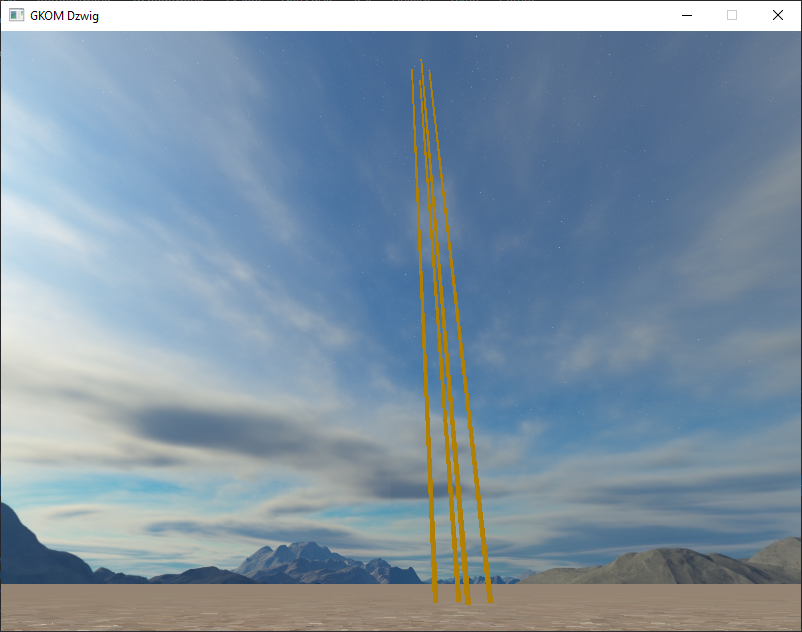
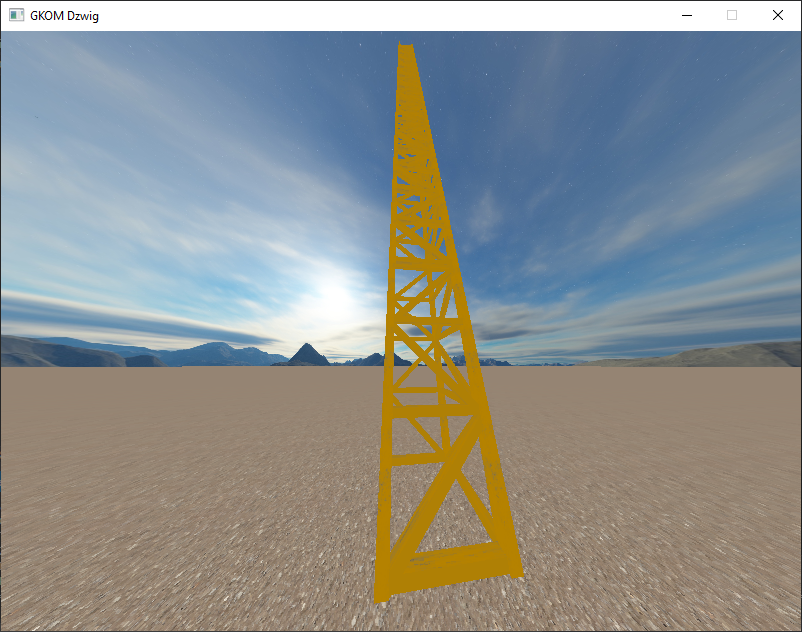
Model cd.

diff --git a/Dzwig/Window.cpp b/Dzwig/Window.cpp
@@ -171,7 +171,7 @@ Window::Window(GLuint w, GLuint h)
 		camera->decreaseCameraSpeed(10.f);
 		this->shaderProgram = ShaderProgram("gl_05.vert", "gl_05.frag");
 
-		ground = new Cuboid(0, -20, 0, 1000, 1, 1000);
+		ground = new Cuboid(0, -2, 0, 1000, 1, 1000);
 		ground->setTexture("gnd1.jpg");
 		
 		
@@ -208,6 +208,89 @@ int Window::mainLoop()
 			Cuboid(1,0,1,.1,50.,.1),
 			Cuboid(1,0,-1,.1,50.,.1),
 		};
+		int cc = 100;
+		Cuboid** c;
+		c = new Cuboid*[cc];
+		GLfloat h = -0.9f;
+		for (int i = 0; i < cc; ++i)
+		{
+			GLfloat rotx=0.f, roty=1.f, rotz=0.f, rotangle=0.f, scalex=1.f, scaley=.08f, scalez=.08f, posx=0.f, posy=h, posz=0.f;
+			if (i % 4 == 0)
+			{
+				posx = -1.f;
+				posz = 0;
+				rotangle = 90.f;
+			}
+			if (i % 4 == 1)
+			{
+				posx = .0f;
+				posz = 1.f;
+			}
+			if (i % 4 == 2)
+			{
+				posx = 1.f;
+				posz = 0.f;
+				rotangle = -90.f;
+			}
+			if (i % 4 == 3)
+			{
+				posx = .0f;
+				posz = -1.f;
+				h += 2.f;
+			}
+			c[i] = new Cuboid(posx, posy, posz, scalex, scaley, scalez, rotx, roty, rotz, rotangle);
+			c[i]->setTexture("metal.png");
+		}
+		int dd = 100;
+		Cuboid** d = new Cuboid*[dd];
+		h = 0.f;
+		for (int i = 0; i < dd/4; ++i)
+		{
+			GLfloat rotx = 0.f, roty = 0.f, rotz = 1.f, rotangle = 45.f, scalex = glm::sqrt(2), scaley = .08f, scalez = .08f, posx = 0.f, posy = h, posz = 1.f;
+			if (i % 2 == 0)
+				rotangle = 45.f;
+			if (i % 2 == 1)
+				rotangle = 135.f;
+			d[i] = new Cuboid(posx, posy, posz, scalex, scaley, scalez, rotx, roty, rotz, rotangle);
+			d[i]->setTexture("metal.png");
+			h += 2.f;
+		}
+		h = 0.f;
+		for (int i = dd/4; i < dd / 2; ++i)
+		{
+			GLfloat rotx = 0.f, roty = 0.f, rotz = 1.f, rotangle = 45.f, scalex = glm::sqrt(2), scaley = .08f, scalez = .08f, posx = 0.f, posy = h, posz = -1.f;
+			if (i % 2 == 0)
+				rotangle = 45.f;
+			if (i % 2 == 1)
+				rotangle = 135.f;
+			d[i] = new Cuboid(posx, posy, posz, scalex, scaley, scalez, rotx, roty, rotz, rotangle);
+			d[i]->setTexture("metal.png");
+			h += 2.f;
+		}
+		h = 0.f;
+		for (int i = dd / 2; i < 3*dd / 4; ++i)
+		{
+			GLfloat rotx = 1.f, roty = 0.f, rotz = 0.f, rotangle = 45.f, scalex = .08f, scaley = .08f, scalez = glm::sqrt(2), posx = -1.f, posy = h, posz = 0.f;
+			if (i % 2 == 0)
+				rotangle = 45.f;
+			if (i % 2 == 1)
+				rotangle = 135.f;
+			d[i] = new Cuboid(posx, posy, posz, scalex, scaley, scalez, rotx, roty, rotz, rotangle);
+			d[i]->setTexture("metal.png");
+			h += 2.f;
+		}
+		h = 0.f;
+		for (int i = 3*dd / 4; i < dd ; ++i)
+		{
+			GLfloat rotx = 1.f, roty = 0.f, rotz = 0.f, rotangle = 45.f, scalex = .08f, scaley = .08f, scalez = glm::sqrt(2), posx = 1.f, posy = h, posz = 0.f;
+			if (i % 2 == 0)
+				rotangle = 45.f;
+			if (i % 2 == 1)
+				rotangle = 135.f;
+			d[i] = new Cuboid(posx, posy, posz, scalex, scaley, scalez, rotx, roty, rotz, rotangle);
+			d[i]->setTexture("metal.png");
+			h += 2.f;
+		}
 		/*b[0].setPosition(-1, 0, -1);
 		b[1].setPosition(-1, 0, 1);
 		b[2].setPosition(1, 0, 1);
@@ -330,6 +413,23 @@ int Window::mainLoop()
 			for (int i = 0; i < 4; ++i)
 			{
 				trans = projection * view*b[i].getModelMatrix();
+				glUniformMatrix4fv(glGetUniformLocation(shaderProgram.get_programID(), "transform"), 1, GL_FALSE, &trans[0][0]);
+				if (test) glEnableVertexAttribArray(1);
+				else glDisableVertexAttribArray(1);
+				glDrawArrays(GL_TRIANGLES, 0, 36);
+			}
+			for (int i = 0; i < cc; ++i)
+			{
+				trans = projection * view*c[i]->getModelMatrix();
+				glUniformMatrix4fv(glGetUniformLocation(shaderProgram.get_programID(), "transform"), 1, GL_FALSE, &trans[0][0]);
+				if (test) glEnableVertexAttribArray(1);
+				else glDisableVertexAttribArray(1);
+				glDrawArrays(GL_TRIANGLES, 0, 36);
+			}
+
+			for (int i = 0; i < dd; ++i)
+			{
+				trans = projection * view*d[i]->getModelMatrix();
 				glUniformMatrix4fv(glGetUniformLocation(shaderProgram.get_programID(), "transform"), 1, GL_FALSE, &trans[0][0]);
 				if (test) glEnableVertexAttribArray(1);
 				else glDisableVertexAttribArray(1);

diff --git a/Dzwig/Cuboid.cpp b/Dzwig/Cuboid.cpp
@@ -19,100 +19,6 @@ Cuboid::Cuboid(GLfloat posX, GLfloat posY, GLfloat posZ, GLfloat scaleX, GLfloat
 
 	modelMatrix = glm::mat4(1.0f);
 
-
-	vertices = { 
-		// back face (CCW wi
-		 1.0f, -1.0f, -1.0f,
-		-1.0f, -1.0f, -1.0f,
-		-1.0f,  1.0f, -1.0f,
-		-1.0f,  1.0f, -1.0f,
-		 1.0f,  1.0f, -1.0f,
-		 1.0f, -1.0f, -1.0f,
-		 // front face (CCW w
-		 -1.0f, -1.0f,  1.0f,
-		  1.0f, -1.0f,  1.0f,
-		  1.0f,  1.0f,  1.0f,
-		  1.0f,  1.0f,  1.0f,
-		 -1.0f,  1.0f,  1.0f,
-		 -1.0f, -1.0f,  1.0f,
-		 // left face (CCW)
-		 -1.0f, -1.0f, -1.0f,
-		 -1.0f, -1.0f,  1.0f,
-		 -1.0f,  1.0f,  1.0f,
-		 -1.0f,  1.0f,  1.0f,
-		 -1.0f,  1.0f, -1.0f,
-		 -1.0f, -1.0f, -1.0f,
-		 // right face (CCW)
-		  1.0f, -1.0f,  1.0f,
-		  1.0f, -1.0f, -1.0f,
-		  1.0f,  1.0f, -1.0f,
-		  1.0f,  1.0f, -1.0f,
-		  1.0f,  1.0f,  1.0f,
-		  1.0f, -1.0f,  1.0f,
-		  // bottom face (CCW)
-		  -1.0f, -1.0f, -1.0f,
-		   1.0f, -1.0f, -1.0f,
-		   1.0f, -1.0f,  1.0f,
-		   1.0f, -1.0f,  1.0f,
-		  -1.0f, -1.0f,  1.0f,
-		  -1.0f, -1.0f, -1.0f,
-		  // top face (CCW)
-		  -1.0f,  1.0f,  1.0f,
-		   1.0f,  1.0f,  1.0f,
-		   1.0f,  1.0f, -1.0f,
-		   1.0f,  1.0f, -1.0f,
-		  -1.0f,  1.0f, -1.0f,
-		  -1.0f,  1.0f,  1.0f,
-	};
-
-	
-
-	/*vertexTexture = {
-			// back face (CCW winding)
-			 1.0f, -1.0f, -1.0f,  0.0f, 0.0f, // bottom-left
-			-1.0f, -1.0f, -1.0f,  1.0f, 0.0f, // bottom-right
-			-1.0f,  1.0f, -1.0f,  1.0f, 1.0f, // top-right
-			-1.0f,  1.0f, -1.0f,  1.0f, 1.0f, // top-right
-			 1.0f,  1.0f, -1.0f,  0.0f, 1.0f, // top-left
-			 1.0f, -1.0f, -1.0f,  0.0f, 0.0f, // bottom-left
-			// front face (CCW winding)
-			-1.0f, -1.0f,  1.0f,  0.0f, 0.0f, // bottom-left
-			 1.0f, -1.0f,  1.0f,  1.0f, 0.0f, // bottom-right
-			 1.0f,  1.0f,  1.0f,  1.0f, 1.0f, // top-right
-			 1.0f,  1.0f,  1.0f,  1.0f, 1.0f, // top-right
-			-1.0f,  1.0f,  1.0f,  0.0f, 1.0f, // top-left
-			-1.0f, -1.0f,  1.0f,  0.0f, 0.0f, // bottom-left
-			// left face (CCW)
-			-1.0f, -1.0f, -1.0f,  0.0f, 0.0f, // bottom-left
-			-1.0f, -1.0f,  1.0f,  1.0f, 0.0f, // bottom-right
-			-1.0f,  1.0f,  1.0f,  1.0f, 1.0f, // top-right
-			-1.0f,  1.0f,  1.0f,  1.0f, 1.0f, // top-right
-			-1.0f,  1.0f, -1.0f,  0.0f, 1.0f, // top-left
-			-1.0f, -1.0f, -1.0f,  0.0f, 0.0f, // bottom-left
-			// right face (CCW)
-			 1.0f, -1.0f,  1.0f,  0.0f, 0.0f, // bottom-left
-			 1.0f, -1.0f, -1.0f,  1.0f, 0.0f, // bottom-right
-			 1.0f,  1.0f, -1.0f,  1.0f, 1.0f, // top-right
-			 1.0f,  1.0f, -1.0f,  1.0f, 1.0f, // top-right
-			 1.0f,  1.0f,  1.0f,  0.0f, 1.0f, // top-left
-			 1.0f, -1.0f,  1.0f,  0.0f, 0.0f, // bottom-left
-			// bottom face (CCW)      
-			-1.0f, -1.0f, -1.0f,  0.0f, 0.0f, // bottom-left
-			 1.0f, -1.0f, -1.0f,  1.0f, 0.0f, // bottom-right
-			 1.0f, -1.0f,  1.0f,  1.0f, 1.0f, // top-right
-			 1.0f, -1.0f,  1.0f,  1.0f, 1.0f, // top-right
-			-1.0f, -1.0f,  1.0f,  0.0f, 1.0f, // top-left
-			-1.0f, -1.0f, -1.0f,  0.0f, 0.0f, // bottom-left
-			// top face (CCW)
-			-1.0f,  1.0f,  1.0f,  0.0f, 0.0f, // bottom-left
-			 1.0f,  1.0f,  1.0f,  1.0f, 0.0f, // bottom-right
-			 1.0f,  1.0f, -1.0f,  1.0f, 1.0f, // top-right
-			 1.0f,  1.0f, -1.0f,  1.0f, 1.0f, // top-right
-			-1.0f,  1.0f, -1.0f,  0.0f, 1.0f, // top-left
-			-1.0f,  1.0f,  1.0f,  0.0f, 0.0f, // bottom-left
-	};*/
-
-
 	vertexTexture = {
 		// back face (CCW winding)
 		 1.0f, -1.0f, -1.0f,  0.0f, 0.0f, // bottom-left
@@ -200,20 +106,20 @@ void Cuboid::generateModelMatrix()
 	
 }
 
-GLfloat* Cuboid::getVertexArrayPointer()
+/*GLfloat* Cuboid::getVertexArrayPointer()
 {
 	return &vertices[0];
-}
+}*/
 
 GLfloat * Cuboid::getVertexTextureArrayPointer()
 {
 	return &vertexTexture[0];
 }
 
-GLuint Cuboid::getVertexArraySize()
+/*GLuint Cuboid::getVertexArraySize()
 {
 	return vertices.size();
-}
+}*/
 
 GLuint Cuboid::getVertexTextureArraySize()
 {

diff --git a/Dzwig/Cuboid.h b/Dzwig/Cuboid.h
@@ -21,7 +21,7 @@ class Cuboid
 	GLfloat scaleX, scaleY, scaleZ; // skala
 	GLfloat posX, posY, posZ; // pozycja/przesuniecie
 	GLfloat rotX, rotY, rotZ; // wektor wyznaczajacy os obrotu
-	GLfloat rotAngle = 0.f; // kat obrotu (stopnie)
+	GLfloat rotAngle; // kat obrotu (stopnie)
 	glm::mat4 modelMatrix;
 	vector<GLfloat> vertices;
 	vector<GLuint> indices;
@@ -35,24 +35,16 @@ class Cuboid
 	void scale();
 	void generateModelMatrix();
 
-	
-
-
-
 public:
 	Cuboid(
 		GLfloat posX = 0.f, GLfloat posY = 0.f, GLfloat posZ = 0.f, 
 		GLfloat scaleX=1.0f, GLfloat scaleY=1.0f, GLfloat scaleZ=1.0f,
 		GLfloat rotX=1.f, GLfloat rotY=1.f, GLfloat rotZ=1.f, GLfloat rotAngle = 0.f);
-	//Cuboid();
 	void generateVertices();
 
 	glm::mat4 getModelMatrix();
 
-	GLfloat* getVertexArrayPointer();
 	GLfloat* getVertexTextureArrayPointer();
-
-	GLuint getVertexArraySize();
 	GLuint getVertexTextureArraySize();
 
 
